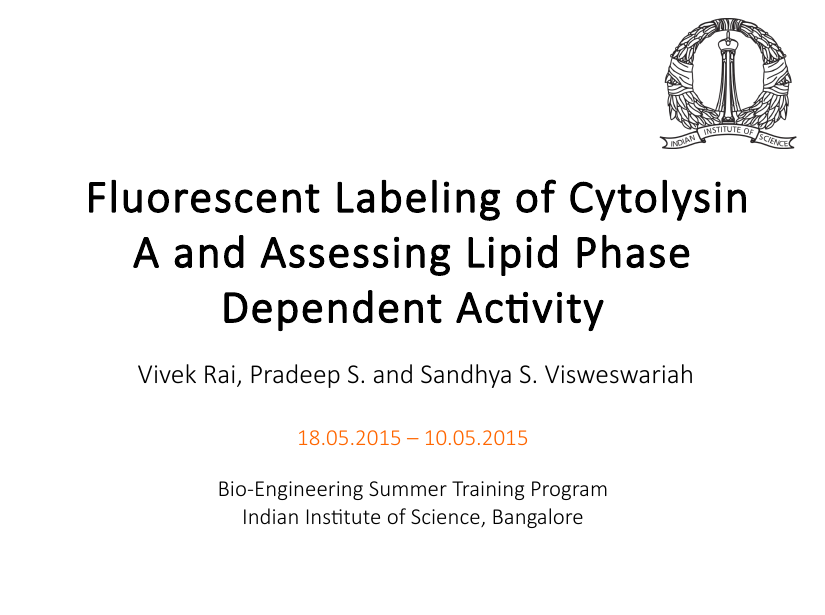
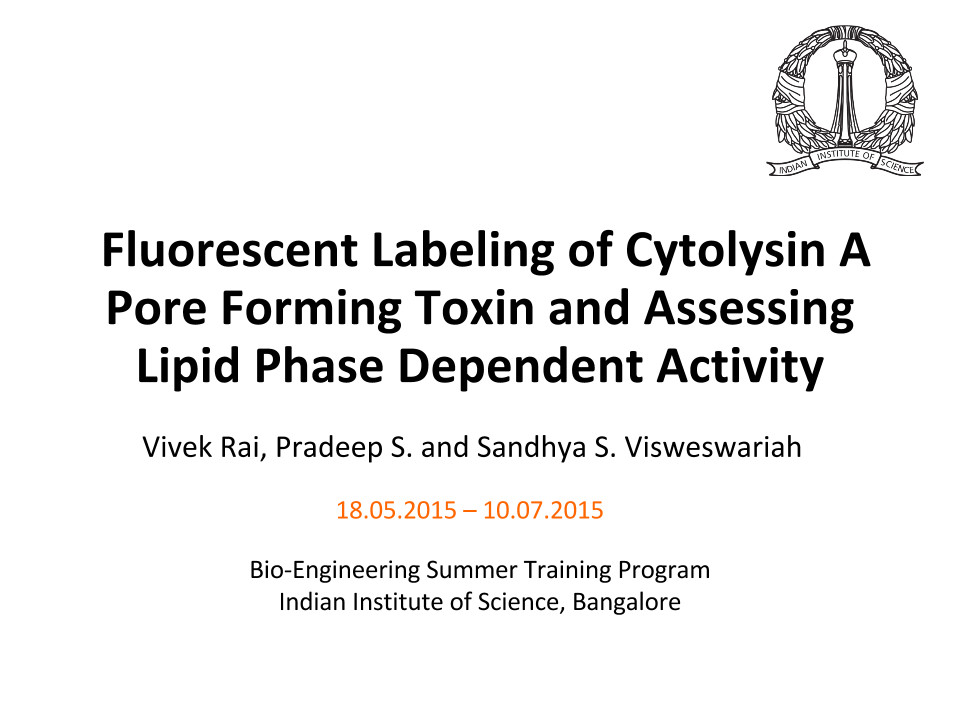
Fix date in PPT title

diff --git a/site/styles.sass b/site/styles.sass
@@ -1,8 +1,7 @@
 body
   background-color: #fff
   letter-spacing: 0.05em
-  //font-family: 'Georgia', serif
-  font-family: 'Source Sans Pro', 'sans-serif'
+  font-family: 'Georgia', serif
 
 figcaption
   padding: 10px
